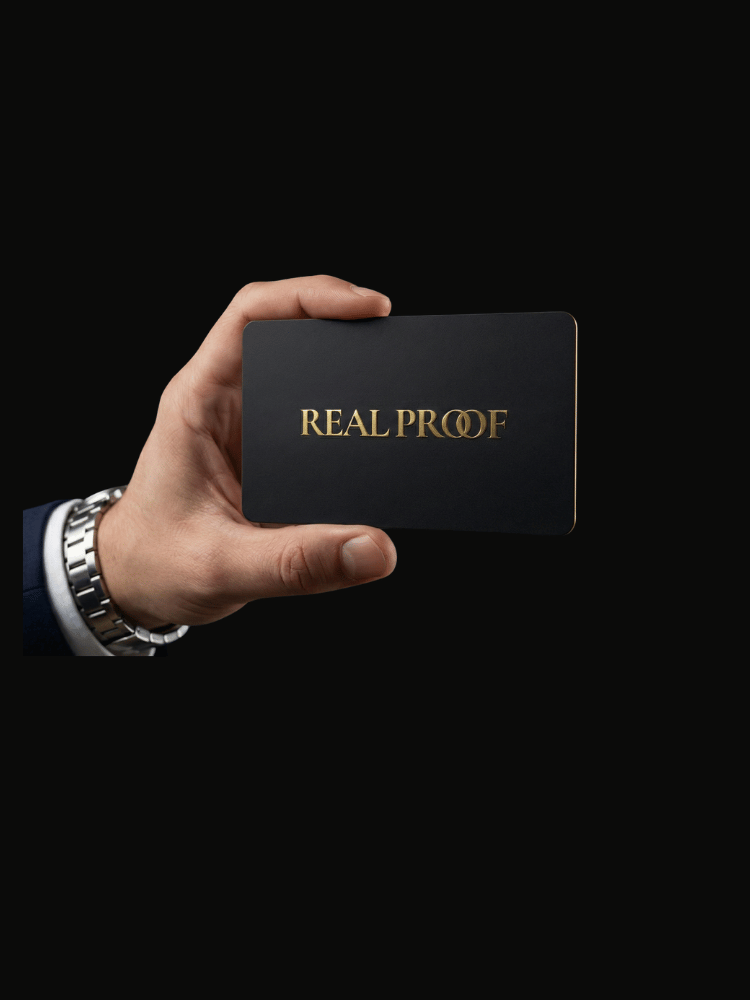
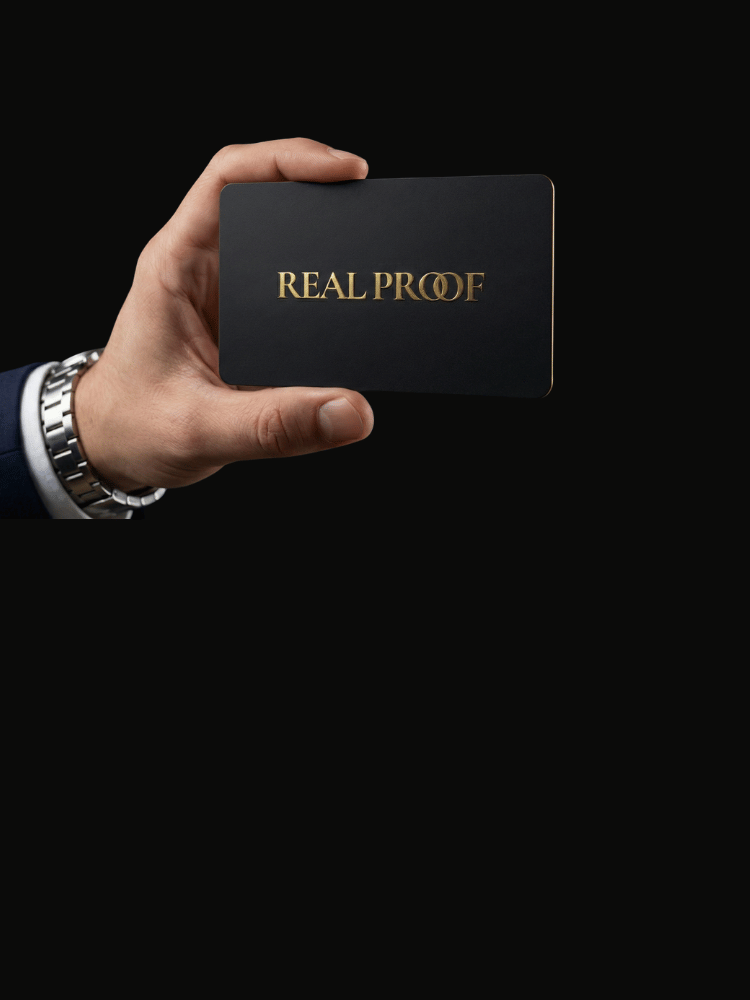
fix: SP Hero上部余白削減 + 画像更新

diff --git a/src/app/page.tsx b/src/app/page.tsx
@@ -299,7 +299,7 @@ export default function Home() {
           {/* ゴールドラベル（画像の上、絶対位置で上部に配置） */}
           <div style={{
             position: 'absolute',
-            top: '80px',
+            top: '10px',
             left: 0,
             right: 0,
             textAlign: 'center',
